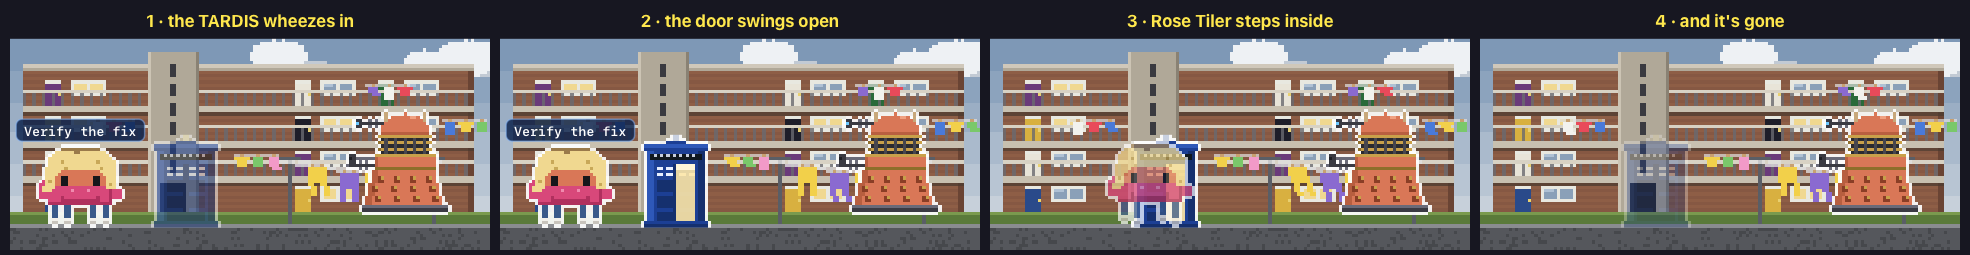
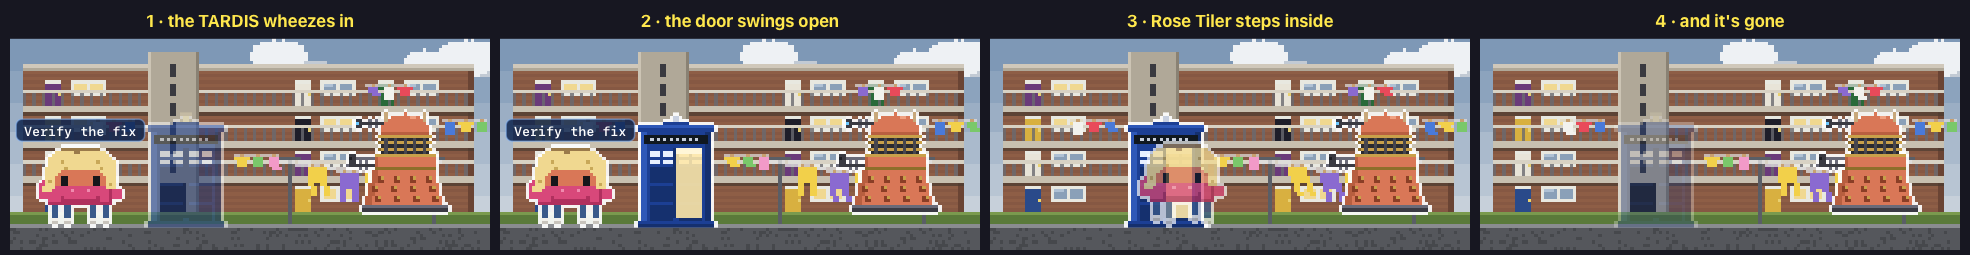
feat(doctor): make the TARDIS 25% bigger so a character fits through the door
The police box grows from 18x28 to 22x35 pixels. The ships share a 66x29
canvas, so rides now have a canvasHeight: 36 rows for the TARDIS, the
ships' height for the rest (their drawings assume it). The overlay,
Preview and RenderShowcase use it. Whoever boards walks to the open
right-hand door, 6 px left of centre, rather than the ships' ramp spot
14 px left. The README's TARDIS strip is re-rendered.

diff --git a/Sources/App/Rides.swift b/Sources/App/Rides.swift
@@ -311,43 +311,50 @@ private func drawBatwing(_ c: PixelCanvas, ramp: Double, engines: Bool, gear: Bo
 }
 
 /// The TARDIS: a blue police box standing on the bottom row, left of centre so whoever boards walks up to its doors
-/// (it never flies in: the overlay fades it in and out where it stands, `Ride.materialises`). The lamp on the roof,
-/// the POLICE BOX sign, the frosted windows and the panelled doors; `door` 0…1 swings the right-hand door open on the
-/// lit interior, `lamp` lights the roof lamp.
+/// (it never flies in: the overlay fades it in and out where it stands, `Ride.materialises`). Taller than the ships'
+/// canvas (`Ride.canvasHeight`), so it stands a head above whoever steps into it. The lamp on the roof, the POLICE BOX
+/// sign, the frosted windows and the panelled doors; `door` 0…1 swings the right-hand door open on the lit interior,
+/// `lamp` lights the roof lamp.
 private func drawTardis(_ c: PixelCanvas, door: Double, lamp: Bool) {
     let blue = C(0x1C3F94), dark = C(0x15306E), edge = C(0x2E58B8), sign = C(0x101820), glass = C(0xE8F0FF)
-    let x0 = 13, w = 18, top = 3
+    let x0 = 11, w = 22, top = 4, base = c.h - 2
     // The roof stack and the lamp.
-    c.rect(x0 + 6, top - 1, 6, 1, blue)
-    c.rect(x0 + 8, top - 3, 2, 2, lamp ? C(0xFFF6C8) : C(0xC8D0E0))
-    if lamp { c.rect(x0 + 7, top - 4, 4, 1, C(0xFFF6C8, 0.45)); c.rect(x0 + 7, top - 2, 1, 1, C(0xFFF6C8, 0.4)); c.rect(x0 + 10, top - 2, 1, 1, C(0xFFF6C8, 0.4)) }
+    c.rect(x0 + 7, top - 1, 8, 1, blue)
+    c.rect(x0 + 10, top - 3, 2, 2, lamp ? C(0xFFF6C8) : C(0xC8D0E0))
+    if lamp {
+        c.rect(x0 + 9, top - 4, 4, 1, C(0xFFF6C8, 0.45))
+        c.px(x0 + 9, top - 2, C(0xFFF6C8, 0.4)); c.px(x0 + 12, top - 2, C(0xFFF6C8, 0.4))
+    }
     c.rect(x0 - 1, top, w + 2, 2, blue); c.rect(x0 - 1, top, w + 2, 1, edge)
     // The body, its corner posts and the sign.
-    c.rect(x0, top + 2, w, 29 - top - 4, blue)
-    c.rect(x0, top + 2, 2, 29 - top - 4, edge); c.rect(x0 + w - 2, top + 2, 2, 29 - top - 4, dark)
-    c.rect(x0 + 1, top + 3, w - 2, 2, sign)
-    for x in stride(from: x0 + 2, to: x0 + w - 2, by: 2) { c.px(x, top + 3, glass.alpha(0.85)) }
+    c.rect(x0, top + 2, w, base - top - 2, blue)
+    c.rect(x0, top + 2, 2, base - top - 2, edge); c.rect(x0 + w - 2, top + 2, 2, base - top - 2, dark)
+    c.rect(x0 + 1, top + 3, w - 2, 3, sign)
+    for x in stride(from: x0 + 3, to: x0 + w - 3, by: 2) { c.px(x, top + 4, glass.alpha(0.85)) }
     // The doors: windows over three panels each, split down the middle.
-    let doorY = top + 6, doorH = 29 - doorY - 2
+    let doorY = top + 7, doorH = base - doorY - 1, half = (w - 4) / 2
     for side in 0..<2 {
-        let dx = x0 + 2 + side * 7
-        c.rect(dx + 1, doorY + 1, 5, 3, glass)
-        c.rect(dx + 3, doorY + 1, 1, 3, blue); c.rect(dx + 1, doorY + 2, 5, 1, blue)
-        for k in 0..<3 { c.rect(dx + 1, doorY + 5 + k * 5, 5, 4, dark) }
+        let dx = x0 + 2 + side * half
+        c.rect(dx + 1, doorY + 1, half - 2, 4, glass)
+        c.rect(dx + half / 2, doorY + 1, 1, 4, blue); c.rect(dx + 1, doorY + 3, half - 2, 1, blue)
+        let panel = (doorH - 7) / 3
+        for k in 0..<3 { c.rect(dx + 1, doorY + 6 + k * (panel + 1), half - 2, panel, dark) }
     }
-    c.rect(x0 + 8, doorY, 2, doorH, dark)
+    c.rect(x0 + 1 + half, doorY, 2, doorH, dark)
     if door > 0 {
         // The right-hand door swings in on the warm light inside.
-        let open = Int((Double(7) * door).rounded())
-        c.rect(x0 + 9, doorY, 7, doorH, C(0xFFE8A8, 0.9))
-        c.rect(x0 + 9, doorY, 7, 2, C(0xFFF6D8))
-        c.rect(x0 + 16 - max(1, 7 - open), doorY, max(1, 7 - open), doorH, blue)
+        let open = Int((Double(half) * door).rounded())
+        c.rect(x0 + 2 + half, doorY, half, doorH, C(0xFFE8A8, 0.9))
+        c.rect(x0 + 2 + half, doorY, half, 2, C(0xFFF6D8))
+        c.rect(x0 + 2 + 2 * half - max(1, half - open), doorY, max(1, half - open), doorH, blue)
     }
     // The base.
-    c.rect(x0 - 1, 27, w + 2, 2, blue); c.rect(x0 - 1, 28, w + 2, 1, dark)
+    c.rect(x0 - 1, base, w + 2, 2, blue); c.rect(x0 - 1, base + 1, w + 2, 1, dark)
 }
 
 extension Ride {
     /// Fades in and out where it stands instead of flying in and away.
     var materialises: Bool { self == .tardis }
+    /// The height of its canvas: the ships' `Ride.height`, taller for the TARDIS (which stands rather than flies).
+    var canvasHeight: Int { self == .tardis ? 36 : Ride.height }
 }

diff --git a/Sources/App/Overlay.swift b/Sources/App/Overlay.swift
@@ -1118,7 +1118,8 @@ final class OverlayController: NSObject, NSMenuDelegate, NSApplicationDelegate, 
                 // ramp up, lift off and away (0.72–1).
                 let p = min(1, (now - left) / falconExit)
                 let cs0 = Self.companionScale * z
-                let rampFoot = exit.landX - exit.dir * 14 * cs0
+                // The ships' ramps come down 14 px left of centre; the TARDIS's open door is 6 px left of it.
+                let rampFoot = exit.landX - exit.dir * (actor.cast.ride?.materialises == true ? 6 : 14) * cs0
                 if p >= 0.36 && p < 0.62 {
                     let k = (p - 0.36) / 0.26
                     actor.x = exit.startX + (rampFoot - exit.startX) * CGFloat(k)
@@ -1464,10 +1465,10 @@ final class OverlayController: NSObject, NSMenuDelegate, NSApplicationDelegate, 
             if p < 0.3 { alpha = pulse(p / 0.3); engines = Int(p * 40) % 2 == 0 }
             else if p < 0.72 { ramp = p < 0.36 ? (p - 0.3) / 0.06 : (p < 0.64 ? 1 : max(0, 1 - (p - 0.64) / 0.06)) }
             else { alpha = pulse(1 - (p - 0.72) / 0.28); engines = Int(p * 40) % 2 == 0 }
-            let c = PixelCanvas(Ride.width, Ride.height)
+            let c = PixelCanvas(Ride.width, ride.canvasHeight)
             drawRide(c, ride, ramp: ramp, engines: engines, gear: true)
             c.addOutline(C(0xFFFFFF, 0.92))
-            let w = CGFloat(Ride.width) * s, h = CGFloat(Ride.height) * s
+            let w = CGFloat(Ride.width) * s, h = CGFloat(ride.canvasHeight) * s
             return DrawItem(image: c.makeImage(), rect: NSRect(x: (x - w / 2).rounded(), y: (feet - 1 * s).rounded(), width: w, height: h),
                             mirrored: exit.dir < 0, alpha: alpha)
         }

diff --git a/Tools/RenderShowcase/main.swift b/Tools/RenderShowcase/main.swift
@@ -108,10 +108,10 @@ func at(_ c: PixelCanvas, _ ctx: CGContext, _ o: CGPoint, bodyX: Double, left: B
 
 // The TARDIS: it wheezes in beside Rose, the door opens, she steps in, and it fades away. A Dalick looks on.
 func tardisBox(_ ctx: CGContext, _ o: CGPoint, x: Double, door: Double, lamp: Bool, alpha: CGFloat) {
-    let c = PixelCanvas(Ride.width, Ride.height)
+    let c = PixelCanvas(Ride.width, Ride.tardis.canvasHeight)
     drawRide(c, .tardis, ramp: door, engines: lamp, gear: true)
     c.addOutline(C(0xFFFFFF, 0.92))
-    put(c, ctx, x: x - Double(Ride.width) / 2, y: Double(ph - 8 - 28), unit: unit, frameH: ph, origin: o, alpha: alpha)
+    put(c, ctx, x: x - Double(Ride.width) / 2, y: Double(ph - 8 - Ride.tardis.canvasHeight + 1), unit: unit, frameH: ph, origin: o, alpha: alpha)
 }
 let rose = Cast.hero(DoctorHero.rose), dalick = Cast.villain(DoctorVillain.dalick)
 let roseX = 22.0, boxX = 66.0
@@ -130,7 +130,7 @@ strip(.powellEstate, [
     },
     Panel(caption: "3 · Rose Tiler steps inside") { ctx, o, sy in
         tardisBox(ctx, o, x: boxX, door: 1, lamp: false, alpha: 1)
-        at(sprite(rose, t: 0.06, walking: true), ctx, o, bodyX: 50, alpha: 0.75)
+        at(sprite(rose, t: 0.06, walking: true), ctx, o, bodyX: 60, alpha: 0.75)
         at(sprite(dalick, left: true), ctx, o, bodyX: 124, left: true)
     },
     Panel(caption: "4 · and it's gone") { ctx, o, _ in

diff --git a/Tools/Preview/main.swift b/Tools/Preview/main.swift
@@ -252,17 +252,17 @@ case "place":
     })
 
 case "rides":
-    let cellW = CGFloat(Ride.width) * scale + 12, cellH = CGFloat(Ride.height) * scale + 30
+    let cellW = CGFloat(Ride.width) * scale + 12, cellH = CGFloat(Ride.tardis.canvasHeight) * scale + 30
     let states: [(String, Double, Bool, Bool)] = [("landed", 0, false, true), ("ramp down", 1, false, true), ("flying", 0, true, false)]
     let rides: [Ride] = [.falcon, .quinjet, .milano, .javelin, .batwing, .tardis]
     save(sheet(Int(cellW * 3), Int(cellH * CGFloat(rides.count))) { ctx in
         for (i, ride) in rides.enumerated() {
             for (j, st) in states.enumerated() {
-                let c = PixelCanvas(Ride.width, Ride.height)
+                let c = PixelCanvas(Ride.width, ride.canvasHeight)
                 drawRide(c, ride, ramp: st.1, engines: st.2, gear: st.3)
                 c.addOutline(C(0xFFFFFF, 0.92))
                 let x = CGFloat(j) * cellW, y = cellH * CGFloat(rides.count - 1 - i)
-                ctx.draw(c.makeImage()!, in: CGRect(x: x + 6, y: y + 6, width: CGFloat(Ride.width) * scale, height: CGFloat(Ride.height) * scale))
+                ctx.draw(c.makeImage()!, in: CGRect(x: x + 6, y: y + 6, width: CGFloat(Ride.width) * scale, height: CGFloat(ride.canvasHeight) * scale))
                 label("\(ride) · \(st.0)", x + 6, y + cellH - 20)
             }
         }

diff --git a/CHANGELOG.md b/CHANGELOG.md
@@ -17,6 +17,7 @@ Clawd Clash brings three apps together as its three universes: Clawd Wars became
 
 ### Changed
 - **Test runs leave the hook's universe alone.** A Playground, demo, chaos or `CLAWD_SHOT` run no longer writes its universe to the status file at launch, so taking screenshots in another universe doesn't change who the installed app casts new sessions as. The Playground's sample prompts are Doctor Clawd's own in Doctor Clawd.
+- **The TARDIS is 25% bigger** (22×35 pixels instead of 18×28, on a canvas of its own), so it stands a head taller than whoever boards it, and they walk up to its open door instead of the spot where a ship's ramp would be.
 - **Blink's last Angle is smaller**, so it no longer runs off the bottom of the screen.
 - **The Doctor Clawd README points at this repo.** It said the code was being built on Clawd Clash's `doctor_who` branch; the work now happens here, on a copy of Clawd Clash with Doctor Clawd as its fourth universe.
 - **The README goes by the universes' names throughout**, its pictures included (`docs/roster-star-clawds.png` and so on, as `Tools/RenderDocs` now names them).
